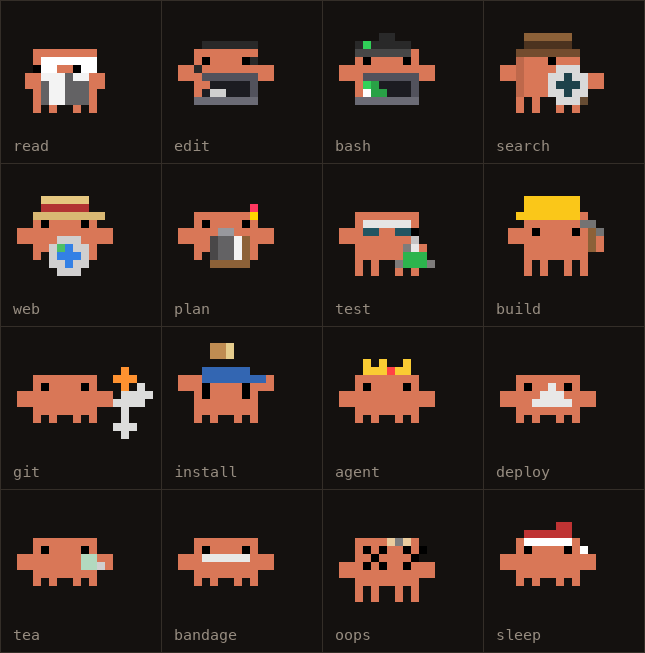
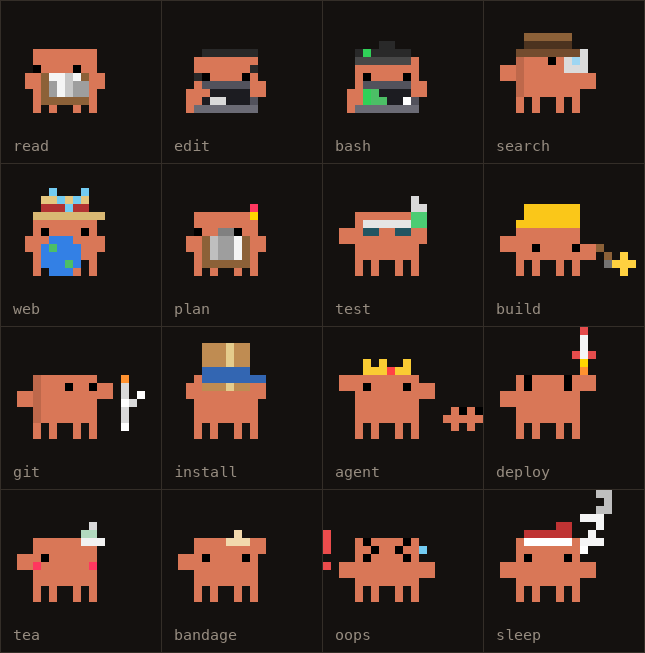
Refresh README, docs and images for the new animations and hover card

diff --git a/docs/assets/build/ExportFrames.swift b/docs/assets/build/ExportFrames.swift
@@ -12,6 +12,7 @@ struct ExportFrames {
         let args = CommandLine.arguments
         if args.count >= 4 && args[1] == "scene" { scene(spec: args[2], dir: args[3]); return }
         if args.count >= 2 && args[1] == "catalog" { print(AnimationCatalog.markdown()); return }
+        if args.count >= 4 && args[1] == "card" { card(spec: args[2], out: args[3]); return }
         cells()
     }
 
@@ -19,13 +20,14 @@ struct ExportFrames {
         let renderer = Renderer(m: PetModel())
         var out: [[String: Any]] = []
         for anim in AnimationCatalog.all {
-            let steps = max(1, Int((anim.duration * 12).rounded(.up)))
+            let steps = AnimationData.clips[anim.id]?.frameCount ?? max(1, Int((anim.duration * 12).rounded(.up)))
             var frames: [[[Int]]] = []
             for i in 0..<steps {
                 let t = Double(i) / 12.0
                 let pose = renderer.pose(anim.id, quirk: 0, local: -1, t: t, age: t, now: Date(timeIntervalSinceReferenceDate: t))
                 let pen = Pen(recordingU: 1)
                 renderer.paintSprite(pen, pose, anim.id, t, t)
+                renderer.paintEffects(pen, anim.id, pose, frame: renderer.clipFrame(anim.id, age: t), t: t, session: nil, now: Date(timeIntervalSinceReferenceDate: t))
                 var cells: [[Int]] = []
                 for (y, row) in pen.cells { for (x, c) in row { cells.append([x, y, Int(c)]) } }
                 frames.append(cells.sorted { ($0[1], $0[0]) < ($1[1], $1[0]) })
@@ -74,6 +76,40 @@ struct ExportFrames {
             try! rep.representation(using: .png, properties: [:])!.write(to: URL(fileURLWithPath: String(format: "%@/%03d.png", dir, i)))
         }
         print("\(frames) frames, \(model.sessions.count) sessions -> \(dir)")
+    }
+}
+
+extension ExportFrames {
+    /// The real hover card (`ActivityView`) for one demo session, rendered offscreen on a solid backdrop.
+    /// spec: {"session": {...}, "events": [["edit","routes.ts +12 −3"], ...], "prompt": "...", "message": "..."}
+    @MainActor static func card(spec: String, out: String) {
+        let s = try! JSONSerialization.jsonObject(with: Data(contentsOf: URL(fileURLWithPath: spec))) as! [String: Any]
+        let fm = FileManager.default
+        try? fm.removeItem(atPath: sessionsDir)
+        try! fm.createDirectory(atPath: sessionsDir, withIntermediateDirectories: true)
+        var obj = s["session"] as! [String: Any]
+        let now = Date().timeIntervalSince1970 * 1000
+        obj["ts"] = now; obj["turnStart"] = now - 252_000; obj["startedAt"] = now - 900_000
+        try! JSONSerialization.data(withJSONObject: obj).write(to: URL(fileURLWithPath: sessionsDir + "/card.json"))
+        let model = PetModel()
+        model.loadSessions()
+        let events = (s["events"] as? [[String]]) ?? []
+        model.sessions[0].events = events.enumerated().map { i, e in
+            Ev(ts: now - Double(events.count - i) * 41_000, kind: Kind(rawValue: e[0]) ?? .think, text: e[1])
+        }
+        model.cardSid = model.sessions[0].sid
+        let watcher = TranscriptWatcher()
+        watcher.preview(.init(message: s["message"] as? String ?? "", prompt: s["prompt"] as? String ?? ""))
+        let dark = (s["dark"] as? Bool) ?? true
+        ActivityView.offscreen = true
+        let view = ActivityView(model: model, watcher: watcher)
+            .environment(\.colorScheme, dark ? .dark : .light)
+            .background(dark ? Color(red: 0.08, green: 0.067, blue: 0.06) : Color(red: 0.965, green: 0.945, blue: 0.906))
+        let r = ImageRenderer(content: view)
+        r.scale = 2
+        guard let cg = r.cgImage else { fatalError("card render failed") }
+        try! NSBitmapImageRep(cgImage: cg).representation(using: .png, properties: [:])!.write(to: URL(fileURLWithPath: out))
+        print("card -> \(out)")
     }
 }
 

diff --git a/docs/assets/build/render.py b/docs/assets/build/render.py
@@ -138,6 +138,15 @@ def social(work):
     save_png(im, ASSETS / "social-preview.png", colors=128)
 
 
+def card(work):
+    """The real hover card (ActivityView), rendered offscreen for a demo session. Glass becomes a solid panel."""
+    out = work / "card.png"
+    env = dict(os.environ, HOME=str(work / "home"))
+    subprocess.check_call([str(work / "export-frames"), "card", str(HERE / "scenes" / "card.json"), str(out)], env=env)
+    im = Image.open(out).convert("RGBA")
+    save_png(on(INK, im), ASSETS / "hover-card.png", colors=128)
+
+
 def diagram():
     steps = [("Claude Code", "hooks fire on tool use"), ("one JSON per session", "~/.claude/clawd/sessions/"),
              ("Clawd Pet", "watches the folder"), ("one Clawd per session", "on your desktop")]
@@ -183,6 +192,7 @@ def main():
     gallery(cells)
     team(work)
     social(work)
+    card(work)
     diagram()
     animations_md(work, cells)
     total = 0

diff --git a/docs/ANIMATIONS.md b/docs/ANIMATIONS.md
@@ -1,91 +1,94 @@
 # Animations
 
-83 clips, generated from the app's catalog (`ClawdPet --dump-catalog`). Do not edit by hand: run `python3 docs/assets/build/render.py`.
+86 clips, generated from the app's catalog (`ClawdPet --dump-catalog`). Do not edit by hand: run `python3 docs/assets/build/render.py`.
 
 Status `needs-verify` means the trigger is implemented but no recorded hook payload in `fixtures/` exercises it yet.
 
 | id | trigger | how detected | priority | duration | loop | props | sound | status | tracks |
 |---|---|---|---|---|---|---|---|---|---|
-| read | read | mood working, kind read | 30 | 2.9 | yes | book |  | done | anticipation 0.2, action 2.4, settle 0.3 |
-| edit | edit | mood working, kind edit | 30 | 2.1 | yes | laptop |  | done | anticipation 0.2, action 1.6, settle 0.3 |
-| bash | bash | mood working, kind bash | 30 | 2.3 | yes | laptop |  | done | anticipation 0.2, action 1.8, settle 0.3 |
-| search | search | mood working, kind search | 30 | 1.9 | yes | glass |  | done | anticipation 0.2, action 1.4, settle 0.3 |
-| web | web | mood working, kind web | 30 | 2.5 | yes | page |  | done | anticipation 0.2, action 2.0, settle 0.3 |
-| agent | agent | mood working, kind agent | 30 | 2.1 | yes |  |  | done | anticipation 0.2, action 1.6, settle 0.3 |
-| plan | plan | mood working, kind plan | 30 | 2.7 | yes |  |  | done | anticipation 0.2, action 2.2, settle 0.3 |
-| compact | compact | mood working, kind compact | 30 | 1.5 | yes |  |  | done | anticipation 0.2, action 1.0, settle 0.3 |
-| test | test | mood working, kind test | 30 | 2.5 | yes |  |  | done | anticipation 0.2, action 2.0, settle 0.3 |
-| build | build | mood working, kind build | 30 | 3.5 | yes |  |  | done | anticipation 0.4, action 2.6, settle 0.5 |
-| git | git | mood working, kind git | 30 | 1.7 | yes |  |  | done | anticipation 0.2, action 1.2, settle 0.3 |
-| install | install | mood working, kind install | 30 | 2.7 | yes |  |  | done | anticipation 0.2, action 2.2, settle 0.3 |
-| ask | waiting | mood waiting, kind is not yourTurn | 60 | 1.9 | yes |  |  | done | anticipation 0.2, action 1.4, settle 0.3 |
-| yourTurn | waiting | mood waiting, kind yourTurn | 60 | 1.5 | yes |  |  | done | anticipation 0.2, action 1.0, settle 0.3 |
-| done | done | mood done | 40 | 1.3 | yes |  |  | done | anticipation 0.2, action 0.8, settle 0.3 |
-| oops | oops | mood oops | 50 | 1.5 | yes |  |  | done | anticipation 0.2, action 1.0, settle 0.3 |
-| hello | hello | mood hello | 40 | 1.3 | yes |  |  | done | anticipation 0.2, action 0.8, settle 0.3 |
-| bye | bye | mood bye | 40 | 1.3 | yes |  |  | done | anticipation 0.2, action 0.8, settle 0.3 |
-| think | working | mood working, kind has no activity entry | 30 | 2.0 | yes |  |  | done | anticipation 0.2, action 1.5, settle 0.3 |
-| breathe | ambient | weighted idle pool | 10 | 3.7 | yes |  |  | done | anticipation 0.2, action 3.2, settle 0.3 |
-| blink | ambient | weighted idle pool | 10 | 0.53 | yes |  |  | done | anticipation 0.05, action 0.4, settle 0.08 |
-| glance | ambient | weighted idle pool | 10 | 1.7 | yes |  |  | done | anticipation 0.2, action 1.2, settle 0.3 |
-| stretch | ambient | weighted idle pool, or a 2h session for 3s every 10min | 10 | 2.1 | yes |  |  | done | anticipation 0.2, action 1.6, settle 0.3 |
-| yawn | ambient | weighted idle pool | 10 | 2.3 | yes |  |  | done | anticipation 0.2, action 1.8, settle 0.3 |
-| dance | ambient | weighted idle pool | 10 | 1.9 | yes |  |  | done | anticipation 0.2, action 1.4, settle 0.3 |
-| hum | ambient | weighted idle pool | 10 | 2.5 | yes |  |  | done | anticipation 0.2, action 2.0, settle 0.3 |
-| mote | ambient | weighted idle pool | 10 | 2.7 | yes |  |  | done | anticipation 0.2, action 2.2, settle 0.3 |
-| juggle | ambient | weighted idle pool | 10 | 2.1 | yes |  |  | done | anticipation 0.2, action 1.6, settle 0.3 |
-| dream | ambient | weighted idle pool | 10 | 3.5 | yes |  |  | done | anticipation 0.2, action 3.0, settle 0.3 |
-| sleep | sleep | sleeping flag, or idle 120s | 20 | 4.5 | yes |  |  | done | anticipation 0.2, action 4.0, settle 0.3 |
-| drag | drag | isDragging | 40 | 1.3 | yes |  |  | done | anticipation 0.2, action 0.8, settle 0.3 |
+| read | read | mood working, kind read | 30 | 2.33 | yes | book |  | done | anticipation 0.2, action 1.83, settle 0.3 |
+| edit | edit | mood working, kind edit | 30 | 2.42 | yes | laptop |  | done | anticipation 0.2, action 1.92, settle 0.3 |
+| bash | bash | mood working, kind bash | 30 | 2.33 | yes | laptop |  | done | anticipation 0.2, action 1.83, settle 0.3 |
+| search | search | mood working, kind search | 30 | 2.17 | yes | glass |  | done | anticipation 0.2, action 1.67, settle 0.3 |
+| web | web | mood working, kind web | 30 | 1.83 | yes | page |  | done | anticipation 0.2, action 1.33, settle 0.3 |
+| agent | agent | mood working, kind agent | 30 | 2.33 | yes |  |  | done | anticipation 0.2, action 1.83, settle 0.3 |
+| plan | plan | mood working, kind plan | 30 | 2.0 | yes |  |  | done | anticipation 0.2, action 1.5, settle 0.3 |
+| compact | compact | mood working, kind compact | 30 | 1.58 | yes |  |  | done | anticipation 0.2, action 1.08, settle 0.3 |
+| test | test | mood working, kind test | 30 | 2.0 | yes |  |  | done | anticipation 0.2, action 1.5, settle 0.3 |
+| build | build | mood working, kind build | 30 | 1.98 | yes |  |  | done | anticipation 0.4, action 1.08, settle 0.5 |
+| git | git | mood working, kind git | 30 | 2.33 | yes |  |  | done | anticipation 0.2, action 1.83, settle 0.3 |
+| install | install | mood working, kind install | 30 | 2.92 | yes |  |  | done | anticipation 0.2, action 2.42, settle 0.3 |
+| ask | waiting | mood waiting, kind is not yourTurn | 60 | 2.75 | yes |  |  | done | anticipation 0.2, action 2.25, settle 0.3 |
+| yourTurn | waiting | mood waiting, kind yourTurn | 60 | 2.67 | yes |  |  | done | anticipation 0.2, action 2.17, settle 0.3 |
+| done | done | mood done | 40 | 2.42 | no |  |  | done | anticipation 0.2, action 1.92, settle 0.3 |
+| oops | oops | mood oops | 50 | 2.0 | yes |  |  | done | anticipation 0.2, action 1.5, settle 0.3 |
+| hello | hello | mood hello | 40 | 3.25 | no |  |  | done | anticipation 0.2, action 2.75, settle 0.3 |
+| bye | bye | mood bye | 40 | 3.33 | no |  |  | done | anticipation 0.2, action 2.83, settle 0.3 |
+| think | working | mood working, kind has no activity entry | 30 | 2.5 | yes |  |  | done | anticipation 0.2, action 2.0, settle 0.3 |
+| breathe | ambient | weighted idle pool | 10 | 3.83 | yes |  |  | done | anticipation 0.2, action 3.33, settle 0.3 |
+| blink | ambient | weighted idle pool | 10 | 2.30 | yes |  |  | done | anticipation 0.05, action 2.17, settle 0.08 |
+| glance | ambient | weighted idle pool | 10 | 3.83 | yes |  |  | done | anticipation 0.2, action 3.33, settle 0.3 |
+| stretch | ambient | weighted idle pool, or a 2h session for 3s every 10min | 10 | 2.58 | yes |  |  | done | anticipation 0.2, action 2.08, settle 0.3 |
+| yawn | ambient | weighted idle pool | 10 | 3.0 | yes |  |  | done | anticipation 0.2, action 2.5, settle 0.3 |
+| dance | ambient | weighted idle pool | 10 | 1.33 | yes |  |  | done | anticipation 0.2, action 0.83, settle 0.3 |
+| hum | ambient | weighted idle pool | 10 | 1.83 | yes |  |  | done | anticipation 0.2, action 1.33, settle 0.3 |
+| mote | ambient | weighted idle pool | 10 | 2.5 | yes |  |  | done | anticipation 0.2, action 2.0, settle 0.3 |
+| juggle | ambient | weighted idle pool | 10 | 1.0 | yes |  |  | done | anticipation 0.2, action 0.5, settle 0.3 |
+| dream | ambient | weighted idle pool | 10 | 2.17 | yes |  |  | done | anticipation 0.2, action 1.67, settle 0.3 |
+| sleep | sleep | sleeping flag, or idle 120s | 20 | 3.17 | yes |  |  | done | anticipation 0.2, action 2.67, settle 0.3 |
+| drag | drag | isDragging | 40 | 1.0 | yes |  |  | done | anticipation 0.2, action 0.5, settle 0.3 |
 | glide | glide | isGliding | 40 | 1.6 | yes |  |  | done | anticipation 0.2, action 1.1, settle 0.3 |
-| pet | pet | petUntil still ahead | 40 | 1.4 | yes |  |  | done | anticipation 0.2, action 0.9, settle 0.3 |
-| listen | listen | listening | 40 | 1.8 | yes |  |  | done | anticipation 0.2, action 1.3, settle 0.3 |
-| chatThink | chatThink | chatBusy | 40 | 2.2 | yes |  |  | done | anticipation 0.2, action 1.7, settle 0.3 |
-| chatTalk | chatTalk | chat reply younger than 3s | 40 | 2.0 | yes |  |  | done | anticipation 0.2, action 1.5, settle 0.3 |
-| alarm | alarm | StopFailure or quota, unverified | 70 | 1.1 | no |  |  | needs-verify | anticipation 0.2, action 0.6, settle 0.3 |
-| deploy | deploy | command vercel, netlify, fly deploy, npm publish, or docker push | 30 | 2.8 | yes | mark |  | done | anticipation 0.45, action 1.8, settle 0.55 |
-| commit | commit | command git commit | 30 | 1.5 | yes | seal |  | done | anticipation 0.2, action 1.0, settle 0.3 |
-| push | push | command git push | 30 | 1.8 | yes | plane |  | done | anticipation 0.2, action 1.3, settle 0.3 |
-| pull | pull | command git pull or git fetch | 30 | 2.0 | yes | parcel |  | done | anticipation 0.2, action 1.5, settle 0.3 |
-| lint | lint | command eslint, prettier, or ruff | 30 | 1.4 | yes | brush |  | done | anticipation 0.2, action 0.9, settle 0.3 |
-| migrate | migrate | command prisma, alembic, or psql | 30 | 2.6 | yes | boxes |  | done | anticipation 0.2, action 2.1, settle 0.3 |
-| docker | docker | command docker or compose | 30 | 2.2 | yes | box |  | done | anticipation 0.2, action 1.7, settle 0.3 |
-| serve | serve | command npm run dev or uvicorn | 30 | 2.4 | yes | lantern |  | done | anticipation 0.2, action 1.9, settle 0.3 |
-| mcp | mcp | tool name starts with mcp__ | 30 | 1.3 | yes | line |  | done | anticipation 0.2, action 0.8, settle 0.3 |
-| burstRead | burstRead | 3 Reads inside 5s | 30 | 1.1 | yes | pages |  | done | anticipation 0.2, action 0.6, settle 0.3 |
-| notebook | notebook | NotebookEdit | 30 | 1.9 | yes | page |  | done | anticipation 0.2, action 1.4, settle 0.3 |
-| webSearch | webSearch | WebSearch | 30 | 2.3 | yes | glass |  | done | anticipation 0.2, action 1.8, settle 0.3 |
-| webFetch | webFetch | WebFetch | 30 | 2.7 | yes | page |  | done | anticipation 0.2, action 2.2, settle 0.3 |
-| bandage | bandage | errorStreak 3 or more | 50 | 2.1 | yes | mark |  | done | anticipation 0.2, action 1.6, settle 0.3 |
-| sweat | sweat | tool running longer than 60s | 40 | 1.6 | yes | drop |  | done | anticipation 0.2, action 1.1, settle 0.3 |
-| tea | tea | tool running longer than 180s | 40 | 3.0 | yes | cup |  | done | anticipation 0.2, action 2.5, settle 0.3 |
-| book | book | tool running longer than 600s | 40 | 3.3 | yes | rectangle |  | done | anticipation 0.2, action 2.8, settle 0.3 |
-| frantic | frantic | 15 tool starts inside 10s | 40 | 0.63 | yes | lines |  | done | anticipation 0.05, action 0.5, settle 0.08 |
-| watch | watch | waiting longer than 120s | 60 | 2.1 | yes | circle |  | done | anticipation 0.2, action 1.6, settle 0.3 |
-| flag | flag | waiting longer than 600s | 60 | 1.9 | yes | flag |  | done | anticipation 0.2, action 1.4, settle 0.3 |
-| coffee | coffee | earliest session today, first 30s | 20 | 2.5 | yes | cup |  | done | anticipation 0.2, action 2.0, settle 0.3 |
-| confetti | confetti | tool 100 or first commit today, 2s | 40 | 1.9 | no | dots |  | done | anticipation 0.2, action 1.4, settle 0.3 |
-| nightcap | nightcap | idle, local hour 1 through 4 | 20 | 3.1 | yes | moon |  | done | anticipation 0.2, action 2.6, settle 0.3 |
-| conflict | conflict | failure text has CONFLICT or Automatic merge failed | 50 | 1.5 | no | mark |  | needs-verify | anticipation 0.2, action 1.0, settle 0.3 |
-| conflictStare | team | two edits of the same file within 60s | 40 | 1.8 | yes |  |  | done | anticipation 0.25, action 1.2, settle 0.35 |
-| highFive | team | two done moods within 3s | 40 | 1.2 | no |  |  | done | anticipation 0.15, action 0.8, settle 0.25 |
-| wave | team | a session sid newly appeared | 40 | 1.24 | no |  |  | done | anticipation 0.12, action 0.9, settle 0.22 |
-| parcel | team | done while another session works, then sleep | 40 | 1.85 | no | parcel |  | done | anticipation 0.35, action 1.1, settle 0.4 |
-| nap | team | every session idle for 120s | 20 | 3.1 | yes |  |  | done | anticipation 0.5, action 2.0, settle 0.6 |
-| bump | team | grabbed slot overlaps a sibling | 40 | 0.6 | no |  |  | done | anticipation 0.08, action 0.4, settle 0.12 |
-| hop | team | every session mood is done | 40 | 0.98 | yes |  |  | done | anticipation 0.1, action 0.7, settle 0.18 |
-| poke | poke | single click without a drag | 40 | 0.76 | no |  |  | done | anticipation 0.06, action 0.6, settle 0.1 |
-| spin | spin | second click within 0.35s | 40 | 1.01 | no |  |  | done | anticipation 0.07, action 0.8, settle 0.14 |
+| pet | pet | petUntil still ahead | 40 | 1.67 | yes |  |  | done | anticipation 0.2, action 1.17, settle 0.3 |
+| listen | listen | listening | 40 | 1.5 | yes |  |  | done | anticipation 0.2, action 1.0, settle 0.3 |
+| chatThink | chatThink | chatBusy | 40 | 2.5 | yes |  |  | done | anticipation 0.2, action 2.0, settle 0.3 |
+| chatTalk | chatTalk | chat reply younger than 3s | 40 | 1.5 | yes |  |  | done | anticipation 0.2, action 1.0, settle 0.3 |
+| testPass | testPass | a test command finished, first 2.5s | 40 | 2.67 | no | check |  | done | anticipation 0.2, action 2.17, settle 0.3 |
+| testFail | testFail | a test command failed, first 2.5s | 50 | 2.5 | no | x |  | done | anticipation 0.2, action 2.0, settle 0.3 |
+| handoff | handoff | a sub-agent started, first 2.5s | 40 | 1.92 | no | parcel |  | done | anticipation 0.2, action 1.42, settle 0.3 |
+| grind | grind | working turn longer than 20 min, 3s every 5 min | 40 | 3.58 | no |  |  | done | anticipation 0.2, action 3.08, settle 0.3 |
+| deploy | deploy | command vercel, netlify, fly deploy, npm publish, or docker push | 30 | 2.83 | yes | mark |  | done | anticipation 0.45, action 1.83, settle 0.55 |
+| commit | commit | command git commit | 30 | 2.08 | yes | seal |  | done | anticipation 0.2, action 1.58, settle 0.3 |
+| push | push | command git push | 30 | 2.42 | yes | plane |  | done | anticipation 0.2, action 1.92, settle 0.3 |
+| pull | pull | command git pull or git fetch | 30 | 2.5 | yes | parcel |  | done | anticipation 0.2, action 2.0, settle 0.3 |
+| lint | lint | command eslint, prettier, or ruff | 30 | 1.5 | yes | brush |  | done | anticipation 0.2, action 1.0, settle 0.3 |
+| migrate | migrate | command prisma, alembic, or psql | 30 | 1.0 | yes | boxes |  | done | anticipation 0.2, action 0.5, settle 0.3 |
+| docker | docker | command docker or compose | 30 | 1.83 | yes | box |  | done | anticipation 0.2, action 1.33, settle 0.3 |
+| serve | serve | command npm run dev or uvicorn | 30 | 2.08 | yes | lantern |  | done | anticipation 0.2, action 1.58, settle 0.3 |
+| mcp | mcp | tool name starts with mcp__ | 30 | 1.5 | yes | line |  | done | anticipation 0.2, action 1.0, settle 0.3 |
+| burstRead | burstRead | 3 Reads inside 5s | 30 | 1.0 | yes | pages |  | done | anticipation 0.2, action 0.5, settle 0.3 |
+| notebook | notebook | NotebookEdit | 30 | 2.0 | yes | page |  | done | anticipation 0.2, action 1.5, settle 0.3 |
+| webSearch | webSearch | WebSearch | 30 | 1.83 | yes | glass |  | done | anticipation 0.2, action 1.33, settle 0.3 |
+| webFetch | webFetch | WebFetch | 30 | 2.08 | yes | page |  | done | anticipation 0.2, action 1.58, settle 0.3 |
+| bandage | bandage | errorStreak 3 or more | 50 | 2.42 | yes | mark |  | done | anticipation 0.2, action 1.92, settle 0.3 |
+| sweat | sweat | tool running longer than 60s | 40 | 1.92 | yes | drop |  | done | anticipation 0.2, action 1.42, settle 0.3 |
+| tea | tea | tool running longer than 180s | 40 | 2.83 | yes | cup |  | done | anticipation 0.2, action 2.33, settle 0.3 |
+| book | book | tool running longer than 600s | 40 | 2.58 | yes | rectangle |  | done | anticipation 0.2, action 2.08, settle 0.3 |
+| frantic | frantic | 15 tool starts inside 10s | 40 | 0.30 | yes | lines |  | done | anticipation 0.05, action 0.17, settle 0.08 |
+| watch | watch | waiting longer than 120s | 60 | 2.33 | yes | circle |  | done | anticipation 0.2, action 1.83, settle 0.3 |
+| flag | flag | waiting longer than 600s | 60 | 1.17 | yes | flag |  | done | anticipation 0.2, action 0.67, settle 0.3 |
+| coffee | coffee | earliest session today, first 30s | 20 | 2.83 | yes | cup |  | done | anticipation 0.2, action 2.33, settle 0.3 |
+| confetti | confetti | tool 100 or first commit today, 2s | 40 | 2.25 | no | dots |  | done | anticipation 0.2, action 1.75, settle 0.3 |
+| nightcap | nightcap | idle, local hour 1 through 4 | 20 | 3.17 | yes | moon |  | done | anticipation 0.2, action 2.67, settle 0.3 |
+| conflict | conflict | failure text has CONFLICT or Automatic merge failed | 50 | 2.08 | no | mark |  | done | anticipation 0.2, action 1.58, settle 0.3 |
+| conflictStare | team | two edits of the same file within 60s | 40 | 2.27 | yes |  |  | done | anticipation 0.25, action 1.67, settle 0.35 |
+| highFive | team | two done moods within 3s | 40 | 2.07 | no |  |  | done | anticipation 0.15, action 1.67, settle 0.25 |
+| wave | team | a session sid newly appeared | 40 | 2.34 | no |  |  | done | anticipation 0.12, action 2.0, settle 0.22 |
+| parcel | team | done while another session works, then sleep | 40 | 2.25 | no | parcel |  | done | anticipation 0.35, action 1.5, settle 0.4 |
+| nap | team | every session idle for 120s | 20 | 3.77 | yes |  |  | done | anticipation 0.5, action 2.67, settle 0.6 |
+| bump | team | grabbed slot overlaps a sibling | 40 | 0.62 | no |  |  | done | anticipation 0.08, action 0.42, settle 0.12 |
+| hop | team | every session mood is done | 40 | 1.36 | yes |  |  | done | anticipation 0.1, action 1.08, settle 0.18 |
+| poke | poke | single click without a drag | 40 | 0.74 | no |  |  | done | anticipation 0.06, action 0.58, settle 0.1 |
+| spin | spin | second click within 0.35s | 40 | 0.96 | no |  |  | done | anticipation 0.07, action 0.75, settle 0.14 |
 | dizzy | dizzy | hold and shake | 40 | 1.25 | no |  |  | done | anticipation 0.09, action 1.0, settle 0.16 |
-| lean | lean | hover one slot for 2s | 40 | 1.66 | yes |  |  | done | anticipation 0.18, action 1.2, settle 0.28 |
-| peek | peek | panel origin within 8pt of a screen edge while dragging | 40 | 1.34 | yes |  |  | done | anticipation 0.22, action 0.8, settle 0.32 |
-| opening | chat | chat status opening | 40 | 1.3 | yes |  |  | done | anticipation 0.2, action 0.8, settle 0.3 |
-| listening | chat | chat status listening | 40 | 1.8 | yes |  |  | done | anticipation 0.2, action 1.3, settle 0.3 |
-| reading | chat | chat status reading | 40 | 1.7 | yes |  |  | done | anticipation 0.2, action 1.2, settle 0.3 |
-| thinking | chat | chat status thinking | 40 | 2.2 | yes |  |  | done | anticipation 0.2, action 1.7, settle 0.3 |
-| talking | chat | chat status talking | 40 | 2.0 | yes |  |  | done | anticipation 0.2, action 1.5, settle 0.3 |
-| offline | chat | chat status offline | 40 | 1.5 | yes |  |  | done | anticipation 0.2, action 1.0, settle 0.3 |
-| outOfCredits | chat | chat status outOfCredits | 40 | 1.5 | yes |  |  | done | anticipation 0.2, action 1.0, settle 0.3 |
-| rateLimited | chat | chat status rateLimited | 40 | 1.5 | yes |  |  | done | anticipation 0.2, action 1.0, settle 0.3 |
-| unauthorized | chat | chat status unauthorized | 40 | 1.5 | yes |  |  | done | anticipation 0.2, action 1.0, settle 0.3 |
-| timeout | chat | chat status timeout | 40 | 1.5 | yes |  |  | done | anticipation 0.2, action 1.0, settle 0.3 |
+| lean | lean | hover one slot for 2s | 40 | 1.88 | yes |  |  | done | anticipation 0.18, action 1.42, settle 0.28 |
+| peek | peek | panel origin within 8pt of a screen edge while dragging | 40 | 1.79 | yes |  |  | done | anticipation 0.22, action 1.25, settle 0.32 |
+| opening | chat | chat status opening | 40 | 1.58 | yes |  |  | done | anticipation 0.2, action 1.08, settle 0.3 |
+| listening | chat | chat status listening | 40 | 1.5 | yes |  |  | done | anticipation 0.2, action 1.0, settle 0.3 |
+| reading | chat | chat status reading | 40 | 1.5 | yes |  |  | done | anticipation 0.2, action 1.0, settle 0.3 |
+| thinking | chat | chat status thinking | 40 | 2.5 | yes |  |  | done | anticipation 0.2, action 2.0, settle 0.3 |
+| talking | chat | chat status talking | 40 | 1.5 | yes |  |  | done | anticipation 0.2, action 1.0, settle 0.3 |
+| offline | chat | chat status offline | 40 | 2.17 | yes |  |  | done | anticipation 0.2, action 1.67, settle 0.3 |
+| outOfCredits | chat | chat status outOfCredits | 40 | 2.17 | yes |  |  | done | anticipation 0.2, action 1.67, settle 0.3 |
+| rateLimited | chat | chat status rateLimited | 40 | 2.17 | yes |  |  | done | anticipation 0.2, action 1.67, settle 0.3 |
+| unauthorized | chat | chat status unauthorized | 40 | 2.17 | yes |  |  | done | anticipation 0.2, action 1.67, settle 0.3 |
+| timeout | chat | chat status timeout | 40 | 2.17 | yes |  |  | done | anticipation 0.2, action 1.67, settle 0.3 |

diff --git a/docs/HOW_IT_WORKS.md b/docs/HOW_IT_WORKS.md
@@ -32,7 +32,8 @@ The hook is registered for these events:
 | `say`, `delta` | A short label: a file base name, a truncated search pattern, a host name, or the command's description. `delta` is a line count like `+12 −3` |
 | `lastTool`, `toolCount`, `toolStartedAt`, `toolTimes`, `lastDurationMs` | Tool counters and timings |
 | `errorStreak`, `lastErrorAt` | Consecutive failed tool calls. A failure that is an interrupt is not counted |
-| `activityId`, `subagentCount` | Finer activity for command-specific clips, such as deploy or git push, and how many sub-agents are running |
+| `activityId`, `subagentCount` | Finer activity for command-specific clips (deploy, git push, a test passing or failing, a sub-agent hand-off) and how many sub-agents are running |
+| `hostBundleId`, `hostPid`, `hostApp`, `tty` | The app the session runs in and its terminal device, for Jump. Found once by walking the process tree with `sysctl` and `proc_pidpath` (no subprocesses); a hook call takes about 10 ms |
 
 For `Bash`, the command text is only used to classify the activity (git, test, install, build). The file stores Claude's short description of the command, never the command itself.
 
@@ -42,17 +43,44 @@ The app polls the folder. For each session, `AnimationCatalog.pick` in [`app/Sou
 
 | Priority | Examples |
 |---|---|
-| 70 | `alarm` |
 | 60 | `ask`, `yourTurn`, `watch`, `flag` (waiting on you) |
 | 50 | `oops`, `bandage` (three failures in a row) |
 | 40 | `done`, `hello`, `tea` (a tool running for over 3 minutes), `drag`, `pet` |
 | 30 | tool and command activities: `read`, `edit`, `deploy`, `push`… |
 | 10–20 | ambient idles and `sleep` |
 
-Team moves such as `highFive` and `parcel` look across sessions, for example two sessions finishing within 3 seconds of each other. Idle clips come from a weighted pool and don't repeat within 20 seconds. Every clip is drawn on a whole-cell grid at 12 fps, and `--pixel-audit` checks that for each one.
+Team moves such as `highFive` and `parcel` look across sessions, for example two sessions finishing within 3 seconds of each other. Idle clips come from a weighted pool; each plays to its end, and the same one never plays twice in a row.
+
+## 4. Frames
+
+Every clip is a hand-authored list of integer cell poses with holds at 12 fps, in [`app/Sources/AnimationData.swift`](../app/Sources/AnimationData.swift). The data is separate from the drawing code. Props are drawn from the hand that holds them, so a hand and its prop always move together. When a character switches clips, connector frames move every pose field at most one cell per frame, so nothing pops.
+
+Two audits keep it honest:
+
+- `--pixel-audit`: every frame sits on the whole-cell grid (no rotation, scaling or anti-aliasing).
+- `--frame-audit`: adjacent frames and loop seams change by at most N cells (20 by default, after the one-cell moves of lean and squash), held props touch a hand, and arms and legs stay connected to the body.
 
 The full table, with triggers and timings, is in [ANIMATIONS.md](ANIMATIONS.md).
 
-## 4. The team panel
+## 5. The team panel
 
 Sessions waiting on you are listed first. Up to six Clawds are drawn side by side, and any more show as a `+N` badge. With two or more sessions, each Clawd wears a scarf whose colour comes from its project name. The menu-bar icon shows the number of waiting sessions.
+
+## 6. Hover card and Jump
+
+The hover card reads the newest assistant message from the session's transcript: the last 64 KB, parsed from the end, skipping tool calls and sub-agent lines. A file watcher refreshes it at most 4 times a second while the card is open. The text is display-only (see [PRIVACY.md](PRIVACY.md)).
+
+**Jump** uses what the hook recorded about where the session runs:
+
+| Host | What Jump does | Tested on this build |
+|---|---|---|
+| Terminal | Selects the tab whose `tty` matches (AppleScript) | Yes: picked the right one of two tabs |
+| iTerm2 | Selects the session whose `tty` matches (AppleScript) | Not tested |
+| VS Code, Cursor, Windsurf | Opens the session's folder with that editor, which focuses its window | Not tested |
+| Claude desktop app | Brings the app forward and says it couldn't pick the session (no documented deep link) | Yes |
+| Any other app | Brings the app forward with the same note | |
+| App no longer running | Opens the session's folder in Finder | Yes |
+
+## Cursor agents
+
+Cursor has its own hooks (`~/.cursor/hooks.json`) with session, tool and stop events, a `conversation_id` and a `transcript_path`, so a connector that writes the same session files looks possible. It isn't built: it hasn't been checked against a real Cursor capture yet, and the event list differs between Cursor versions. Sessions from Cursor's agent don't appear in Clawd Pet today.

diff --git a/README.md b/README.md
@@ -55,10 +55,14 @@ Every clip is listed in **[docs/ANIMATIONS.md](docs/ANIMATIONS.md)**, which is g
 |---|---|
 | **A team of Clawds** | One per running session, six side by side, then a `+N` badge. Waiting sessions move to the front. |
 | **Live activity** | Each Clawd shows what its session is doing: reading, editing, tests, builds, git, installs, web, sub-agents, plans or compaction. |
-| **80+ pixel animations** | A deploy rocket, a tea break on long commands, a bandage after three failures, and high-fives and pass-the-parcel between sessions. |
-| **Hover card** | Hover over a Clawd to see its project, turn timer, tool count and last few actions. |
+| **80+ pixel animations** | Hand-timed 12 fps frames: a deploy rocket, a tea break on long commands, a check mark when tests pass, high-fives and pass-the-parcel between sessions. |
+| **Live hover card** | Hover over a Clawd: project, turn timer, last actions and the session's latest message as it arrives. **Jump** takes you to that session's window. |
 | **Chat on your OpenRouter key** | Click a Clawd or press <kbd>⌃⌥Space</kbd>. Your key is stored in the macOS Keychain. |
 | **Private by default** | No accounts and no analytics. Nothing goes over the network unless you chat. |
+
+<img src="docs/assets/hover-card.png" width="340" alt="Hover card for the api session: working for 4:12, 23 tools, the latest message from Claude, a Jump button and the last four actions">
+
+<sub>The hover card above is rendered offscreen from the app's own view with a demo session.</sub>
 
 ## How it works
 
@@ -72,7 +76,8 @@ Claude Code runs `ClawdPet --hook` on session and tool events. The hook updates 
 
 ## Privacy
 
-- **Stored:** tool names, file base names, the short description Claude writes for each command, the session's folder, and counters. Everything stays in `~/.claude/clawd/sessions/`.
+- **Stored:** tool names, file base names, the short description Claude writes for each command, the session's folder, which app it runs in (for Jump), and counters. Everything stays in `~/.claude/clawd/sessions/`.
+- **Shown, never stored:** the hover card reads the session's latest message from its local transcript to display it. It's never written to a file or sent anywhere. Turn it off in the menu.
 - **Never stored:** file contents or full commands.
 - **Network:** only for chat. Without an OpenRouter key, chat runs your local `claude` CLI instead.
 - **Key:** stored in the macOS Keychain, never in a file.
@@ -94,6 +99,7 @@ Checks, run from the repo root with a throwaway `HOME`:
 ```sh
 HOME=/tmp/clawd-test app/ClawdPet.app/Contents/MacOS/ClawdPet --selftest
 HOME=/tmp/clawd-test app/ClawdPet.app/Contents/MacOS/ClawdPet --pixel-audit
+HOME=/tmp/clawd-test app/ClawdPet.app/Contents/MacOS/ClawdPet --frame-audit
 ```
 </details>
 
@@ -123,6 +129,9 @@ Yes, that's what it's for. Each session gets its own Clawd, name tag and scarf c
 
 **Is it safe to connect?**
 Connect adds hook entries that call the app with `--hook`, after saving a backup to `~/.claude/settings.json.clawd-backup`. If your `settings.json` isn't valid JSON, it leaves the file alone. The hook only writes metadata, and the source is here if you want to check.
+
+**Can it jump to the right window?**
+Terminal: the exact tab (macOS asks once for permission). iTerm2 uses the same approach, and VS Code and Cursor open the session's folder in that editor, but those three are untested so far. Anything else, including the Claude desktop app: the app comes forward and a note says it couldn't pick the session.
 
 **How do I disconnect?**
 Choose **Disconnect and remove hooks** from the menu-bar icon. Hooks you added yourself stay.

diff --git a/docs/PRIVACY.md b/docs/PRIVACY.md
@@ -6,12 +6,20 @@ Clawd Pet has no accounts, analytics, telemetry or update checks.
 
 | Where | What |
 |---|---|
-| `~/.claude/clawd/sessions/<id>.json` | One file per running session: the project name, its working folder, the transcript path, tool names, file base names, short labels (a search pattern cut to about 30 characters, a web host name, Claude's description of a command), line counts and timings. Deleted when the session ends. |
+| `~/.claude/clawd/sessions/<id>.json` | One file per running session: the project name, its working folder, the transcript path, tool names, file base names, short labels (a search pattern cut to about 30 characters, a web host name, Claude's description of a command), line counts and timings, and where the session runs (the host app's bundle id, process id and path, and the terminal device such as `/dev/ttys003`) so Jump can find it. Deleted when the session ends. |
 | `~/.claude/settings.json` | The hook entries that Connect adds. Your original file is copied to `settings.json.clawd-backup` the first time. |
 | macOS Keychain (`dev.clawdpet.app` / `openrouter`) | Your OpenRouter key, if you add one. |
-| `defaults` (`dev.clawdpet.app`) | Preferences: size, position, sounds, chat model. |
+| `defaults` (`dev.clawdpet.app`) | Preferences: size, position, sounds, chat model, whether the hover card shows the latest message. |
 
 **Never stored:** file contents, full shell commands, prompts or replies from your Claude Code sessions.
+
+## Shown, not stored
+
+While a hover card is open, the app reads the end of that session's transcript (at most the last 64 KB) to show the newest assistant message and your last prompt. That text is only displayed. It is never copied into the session file, a log, or any network request. Turn it off with **Show latest message in hover card** in the menu (it's on by default).
+
+## Jump to session
+
+Jump uses AppleScript only for Terminal and iTerm2, to select the tab whose terminal device matches the session. macOS asks once whether Clawd Pet may control that app. For other apps it only brings the app forward, or opens the session's folder in Finder if the app has quit.
 
 ## Over the network
 
